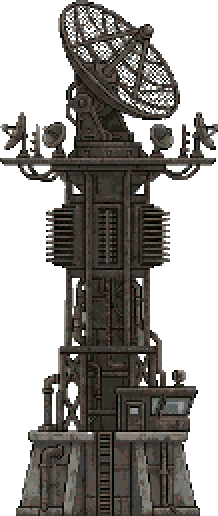
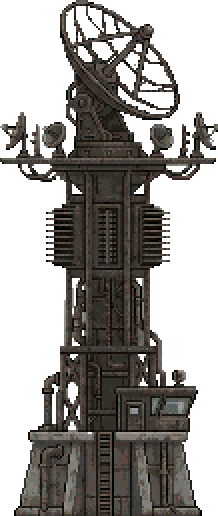
update

diff --git a/Content/ADV/Scenarios/VoidColonys/Architectures/SignalTowers/SignalTowerActor.cs b/Content/ADV/Scenarios/VoidColonys/Architectures/SignalTowers/SignalTowerActor.cs
@@ -1,0 +1,134 @@
+using CalamityOverhaul.Common;
+using CalamityOverhaul.Content.ADV.Scenarios.VoidColonys.Architectures.CollisionMask;
+using InnoVault.Actors;
+using Microsoft.Xna.Framework;
+using Microsoft.Xna.Framework.Graphics;
+using System;
+using System.Collections.Generic;
+using Terraria;
+using Terraria.DataStructures;
+
+namespace CalamityOverhaul.Content.ADV.Scenarios.VoidColonys.Architectures.SignalTowers
+{
+    /// <summary>
+    /// 信号塔Actor
+    /// 作为策划上承担复杂独立功能的核心建筑，从通用<see cref="ArchitectureActor"/>中剥离
+    /// 基础逻辑（时空可见度、碰撞、扭曲着色）与通用建筑保持一致，专属机制（过电滤镜、后续的扫描/广播等）直接挂在自身
+    /// </summary>
+    internal class SignalTowerActor : Actor
+    {
+        /// <summary>被雷击后过电滤镜的剩余帧数</summary>
+        [SyncVar]
+        public int ElectrifyTimer;
+        /// <summary>本次过电的总帧长，便于shader按进度归一化</summary>
+        [SyncVar]
+        public int ElectrifyMax;
+        /// <summary>本次过电的随机种子，让每次电弧形态不同</summary>
+        [SyncVar]
+        public float ElectrifySeed;
+
+        private bool initialized;
+        //时空可见度，过去时逼近1，现在时逼近0
+        private float visibility;
+
+        //隐形碰撞tile记录，与ArchitectureActor共用tile放置器
+        private readonly List<Point16> placedCollisionTiles = [];
+        private bool collisionPlaced;
+        private const float CollisionThreshold = 0.5f;
+
+        /// <summary>当前过电滤镜是否仍在持续</summary>
+        public bool IsElectrified => ElectrifyTimer > 0 && ElectrifyMax > 0;
+
+        /// <summary>在塔上触发一次过电滤镜，<paramref name="frames"/>为总帧长</summary>
+        public void BeginElectrify(int frames, float seed) {
+            if (frames <= 0) return;
+            ElectrifyTimer = frames;
+            ElectrifyMax = frames;
+            ElectrifySeed = seed;
+            NetUpdate = true;
+        }
+
+        public override void OnSpawn(params object[] args) {
+            DrawLayer = ActorDrawLayer.AfterTiles;
+            ApplyTextureSize();
+        }
+
+        public override void AI() {
+            if (!initialized) ApplyTextureSize();
+            if (!VoidColony.Active) {
+                ArchitectureTilePlacer.Clear(placedCollisionTiles);
+                collisionPlaced = false;
+                ActorLoader.KillActor(WhoAmI);
+                return;
+            }
+            ArchitectureWarpDraw.TickVisibility(ref visibility);
+            UpdateCollision();
+            if (ElectrifyTimer > 0) ElectrifyTimer--;
+            Velocity = Vector2.Zero;
+        }
+
+        private void ApplyTextureSize() {
+            Texture2D tex = ArchitectureAsset.Get(ArchitectureType.SignalTower);
+            if (tex == null) return;
+            Width = tex.Width;
+            Height = tex.Height;
+            DrawExtendMode = Math.Max(Width, Height);
+            initialized = true;
+        }
+
+        private void UpdateCollision() {
+            bool shouldPlace = visibility >= CollisionThreshold;
+            if (shouldPlace == collisionPlaced) return;
+
+            if (shouldPlace) {
+                string[] mask = ArchitectureCollisionMask.Get(ArchitectureType.SignalTower);
+                if (mask == null) { collisionPlaced = true; return; }
+                int tileX = (int)Math.Round(Position.X / 16f);
+                int tileY = (int)Math.Round(Position.Y / 16f);
+                ArchitectureTilePlacer.Place(mask, tileX, tileY, placedCollisionTiles);
+                collisionPlaced = true;
+            }
+            else {
+                ArchitectureTilePlacer.Clear(placedCollisionTiles);
+                collisionPlaced = false;
+            }
+        }
+
+        public override bool PreDraw(SpriteBatch spriteBatch, ref Color drawColor) {
+            Texture2D tex = ArchitectureAsset.Get(ArchitectureType.SignalTower);
+            if (tex == null) return false;
+            if (!ArchitectureWarpDraw.ShouldDraw(visibility)) return false;
+
+            float warp = ArchitectureWarpDraw.ComputeWarp();
+            Vector2 drawPos = Position - Main.screenPosition;
+
+            ArchitectureWarpDraw.DrawWithShader(spriteBatch, tex, drawPos, visibility, warp, flipX: false);
+
+            //过电滤镜：Additive叠在本体之上，用原图alpha做遮罩避免矩形外溢
+            if (IsElectrified) {
+                DrawElectrifiedOverlay(spriteBatch, tex, drawPos);
+            }
+            return false;
+        }
+
+        private void DrawElectrifiedOverlay(SpriteBatch spriteBatch, Texture2D tex, Vector2 drawPos) {
+            Effect shader = EffectLoader.SignalTowerElectrified?.Value;
+            if (shader == null) return;
+
+            float progress = 1f - ElectrifyTimer / (float)ElectrifyMax;
+            shader.Parameters["uTime"]?.SetValue(Main.GlobalTimeWrappedHourly);
+            shader.Parameters["electrifyProgress"]?.SetValue(MathHelper.Clamp(progress, 0f, 1f));
+            shader.Parameters["seed"]?.SetValue(ElectrifySeed);
+            shader.Parameters["texelSize"]?.SetValue(new Vector2(1f / tex.Width, 1f / tex.Height));
+            shader.Parameters["intensity"]?.SetValue(MathHelper.Clamp(visibility, 0f, 1f));
+
+            spriteBatch.End();
+            spriteBatch.Begin(SpriteSortMode.Immediate, BlendState.Additive, Main.DefaultSamplerState,
+                DepthStencilState.None, Main.Rasterizer, shader, Main.GameViewMatrix.TransformationMatrix);
+            spriteBatch.Draw(tex, drawPos, null, Color.White, 0f, Vector2.Zero, 1f, SpriteEffects.None, 0f);
+            spriteBatch.End();
+            spriteBatch.Begin(SpriteSortMode.Deferred, BlendState.AlphaBlend, Main.DefaultSamplerState,
+                DepthStencilState.None, Main.Rasterizer, null, Main.GameViewMatrix.TransformationMatrix);
+        }
+    }
+}

diff --git a/Content/ADV/Scenarios/VoidColonys/Architectures/ArchitectureActor.cs b/Content/ADV/Scenarios/VoidColonys/Architectures/ArchitectureActor.cs
@@ -24,16 +24,6 @@ namespace CalamityOverhaul.Content.ADV.Scenarios.VoidColonys.Architectures
         [SyncVar]
         public bool FlipX;
 
-        /// <summary>被雷击后过电滤镜剩余帧数，服务端写入后同步到客户端</summary>
-        [SyncVar]
-        public int ElectrifyTimer;
-        /// <summary>本次过电总时长，供进度归一化使用</summary>
-        [SyncVar]
-        public int ElectrifyMax;
-        /// <summary>本次过电的随机种子，传给shader避免每次都一样</summary>
-        [SyncVar]
-        public float ElectrifySeed;
-
         /// <summary>是否已根据贴图尺寸完成初始化</summary>
         private bool initialized;
 
@@ -71,8 +61,6 @@ namespace CalamityOverhaul.Content.ADV.Scenarios.VoidColonys.Architectures
             }
             ArchitectureWarpDraw.TickVisibility(ref visibility);
             UpdateCollision();
-            //过电计时逐帧递减，服务端与客户端各自消耗以减少同步频率
-            if (ElectrifyTimer > 0) ElectrifyTimer--;
             Velocity = Vector2.Zero;
         }
 
@@ -119,36 +107,7 @@ namespace CalamityOverhaul.Content.ADV.Scenarios.VoidColonys.Architectures
             Vector2 drawPos = Position - Main.screenPosition;
 
             ArchitectureWarpDraw.DrawWithShader(spriteBatch, tex, drawPos, visibility, warp, FlipX);
-
-            //过电滤镜：在建筑之上再以Additive混合跑一遍过电shader，值随计时器衰减
-            if (ElectrifyTimer > 0 && ElectrifyMax > 0) {
-                DrawElectrifiedOverlay(spriteBatch, tex, drawPos);
-            }
             return false;
-        }
-
-        /// <summary>
-        /// 在建筑贴图上额外绘制一层过电辉光，Additive混合确保不抹黑背景
-        /// </summary>
-        private void DrawElectrifiedOverlay(SpriteBatch spriteBatch, Texture2D tex, Vector2 drawPos) {
-            Effect shader = CalamityOverhaul.Common.EffectLoader.SignalTowerElectrified?.Value;
-            if (shader == null) return;
-
-            float progress = 1f - ElectrifyTimer / (float)ElectrifyMax;
-            shader.Parameters["uTime"]?.SetValue(Main.GlobalTimeWrappedHourly);
-            shader.Parameters["electrifyProgress"]?.SetValue(MathHelper.Clamp(progress, 0f, 1f));
-            shader.Parameters["seed"]?.SetValue(ElectrifySeed);
-            shader.Parameters["texelSize"]?.SetValue(new Vector2(1f / tex.Width, 1f / tex.Height));
-            shader.Parameters["intensity"]?.SetValue(MathHelper.Clamp(visibility, 0f, 1f));
-
-            SpriteEffects fx = FlipX ? SpriteEffects.FlipHorizontally : SpriteEffects.None;
-            spriteBatch.End();
-            spriteBatch.Begin(SpriteSortMode.Immediate, BlendState.Additive, Main.DefaultSamplerState,
-                DepthStencilState.None, Main.Rasterizer, shader, Main.GameViewMatrix.TransformationMatrix);
-            spriteBatch.Draw(tex, drawPos, null, Color.White, 0f, Vector2.Zero, 1f, fx, 0f);
-            spriteBatch.End();
-            spriteBatch.Begin(SpriteSortMode.Deferred, BlendState.AlphaBlend, Main.DefaultSamplerState,
-                DepthStencilState.None, Main.Rasterizer, null, Main.GameViewMatrix.TransformationMatrix);
         }
 
         /// <summary>

diff --git a/Content/ADV/Scenarios/VoidColonys/Architectures/SignalTowers/SignalTowerLightningSystem.cs b/Content/ADV/Scenarios/VoidColonys/Architectures/SignalTowers/SignalTowerLightningSystem.cs
@@ -41,9 +41,7 @@ namespace CalamityOverhaul.Content.ADV.Scenarios.VoidColonys.Architectures.Signa
             int pickedIdx = -1;
             var actors = ActorLoader.Actors;
             for (int i = 0; i < actors.Length; i++) {
-                if (actors[i] is ArchitectureActor arch
-                    && arch.Active
-                    && arch.Type == ArchitectureType.SignalTower) {
+                if (actors[i] is SignalTowerActor tower && tower.Active) {
                     towerCount++;
                     //水库抽样：等概率随机挑一座
                     if (Main.rand.Next(towerCount) == 0) pickedIdx = i;
@@ -56,7 +54,7 @@ namespace CalamityOverhaul.Content.ADV.Scenarios.VoidColonys.Architectures.Signa
                 return;
             }
 
-            if (actors[pickedIdx] is not ArchitectureActor target) {
+            if (actors[pickedIdx] is not SignalTowerActor target) {
                 cooldown = CooldownMin;
                 return;
             }
@@ -68,7 +66,7 @@ namespace CalamityOverhaul.Content.ADV.Scenarios.VoidColonys.Architectures.Signa
             cooldown = Main.rand.Next(CooldownMin, CooldownMax + 1);
         }
 
-        private static void TrySpawnBolt(Vector2 strikePoint, ArchitectureActor tower) {
+        private static void TrySpawnBolt(Vector2 strikePoint, SignalTowerActor tower) {
             int w = SignalTowerLightningActor.BoltWidthPx;
             int h = SignalTowerLightningActor.BoltHeightPx;
             //画布底部中点锚在打击点，因此画布左上角在打击点的(-W/2, -H)处
@@ -85,14 +83,8 @@ namespace CalamityOverhaul.Content.ADV.Scenarios.VoidColonys.Architectures.Signa
             bolt.OnSpawn();
             bolt.NetUpdate = true;
 
-            //同步触发信号塔的过电滤镜，过电持续时间比闪电长以体现余韵
-            if (tower != null) {
-                int electrifyFrames = lifeFrames + 60;
-                tower.ElectrifyTimer = electrifyFrames;
-                tower.ElectrifyMax = electrifyFrames;
-                tower.ElectrifySeed = seedValue;
-                tower.NetUpdate = true;
-            }
+            //同步触发信号塔自身的过电滤镜，过电持续时间比闪电长以体现余韵
+            tower?.BeginElectrify(lifeFrames + 60, seedValue);
 
             //雷击音效
             SoundEngine.PlaySound(SoundID.Thunder, strikePoint);

diff --git a/Content/ADV/Scenarios/VoidColonys/Architectures/ArchitectureSpawner.cs b/Content/ADV/Scenarios/VoidColonys/Architectures/ArchitectureSpawner.cs
@@ -49,6 +49,16 @@ namespace CalamityOverhaul.Content.ADV.Scenarios.VoidColonys.Architectures
 
             foreach (var entry in ArchitectureRegistry.Entries) {
                 Vector2 position = new(entry.PixelX, entry.PixelY);
+                //信号塔是独立的复杂建筑，从通用ArchitectureActor管线中分叉出来
+                if (entry.Type == ArchitectureType.SignalTower) {
+                    int towerIdx = ActorLoader.NewActor<SignalTowers.SignalTowerActor>(position, Vector2.Zero);
+                    if (towerIdx < 0 || towerIdx >= ActorLoader.Actors.Length) continue;
+                    if (ActorLoader.Actors[towerIdx] is not SignalTowers.SignalTowerActor tower) continue;
+                    tower.OnSpawn();
+                    tower.NetUpdate = true;
+                    continue;
+                }
+
                 int idx = ActorLoader.NewActor<ArchitectureActor>(position, Vector2.Zero);
                 if (idx < 0 || idx >= ActorLoader.Actors.Length) continue;
                 if (ActorLoader.Actors[idx] is not ArchitectureActor actor) continue;